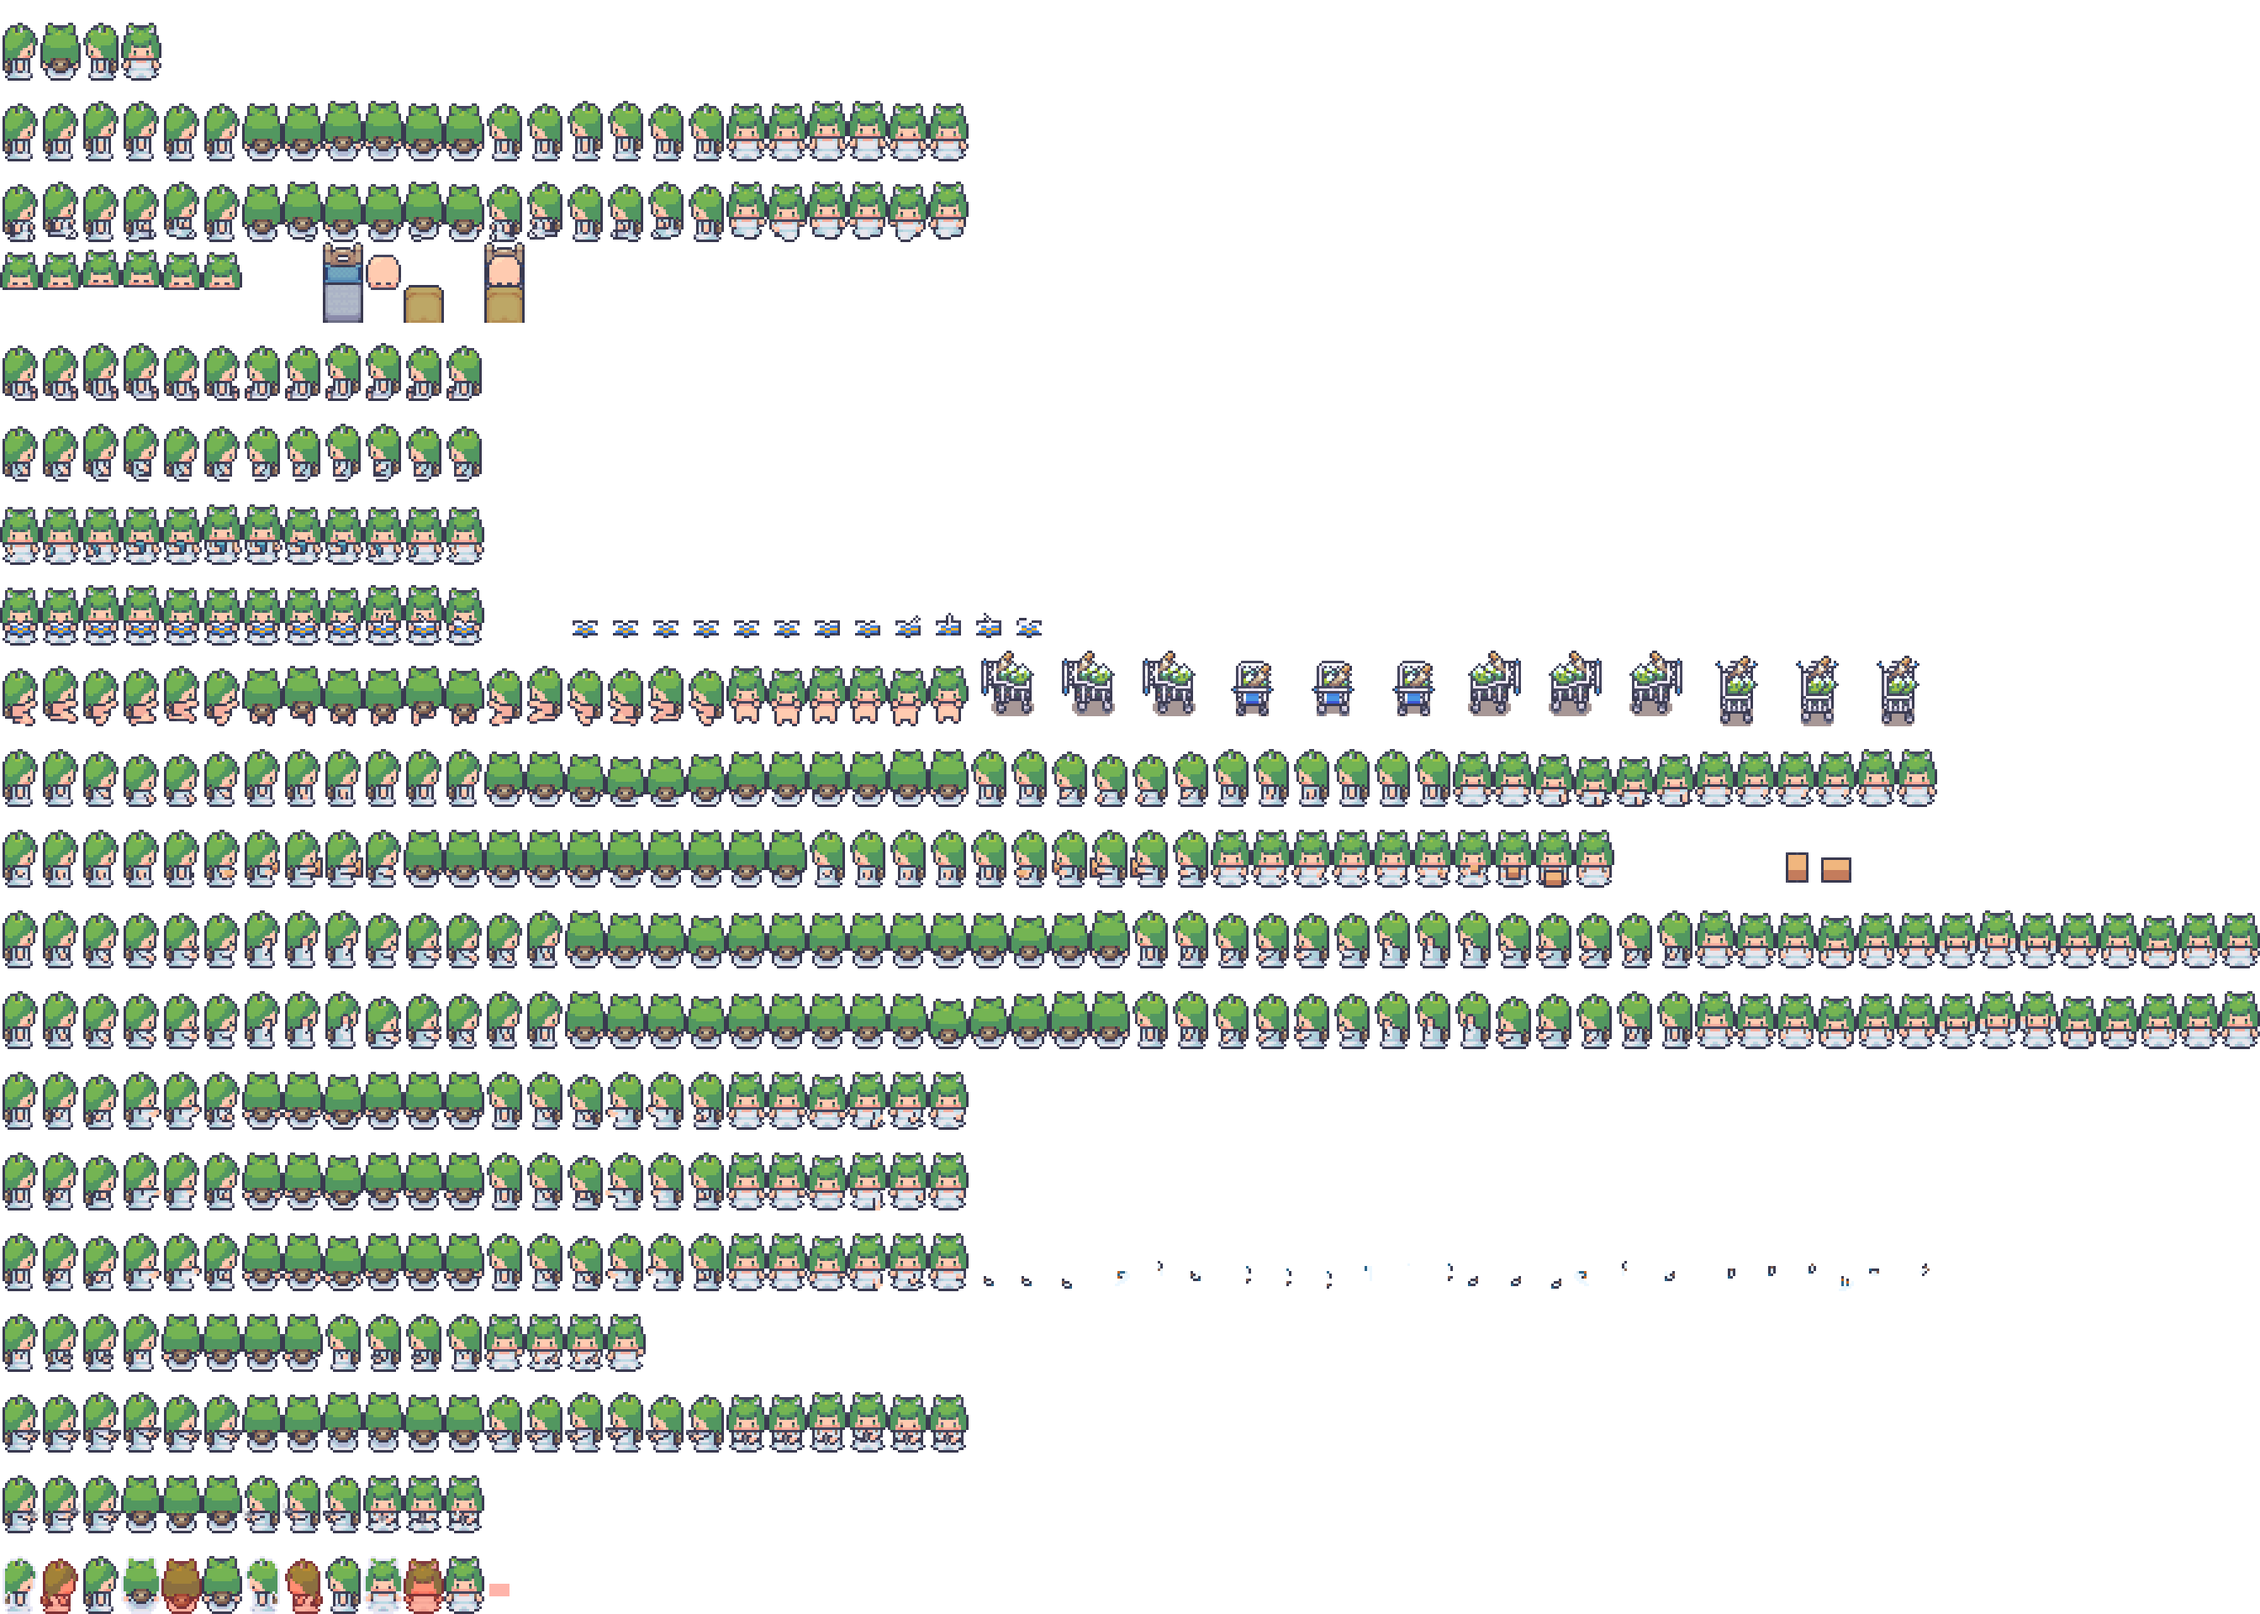
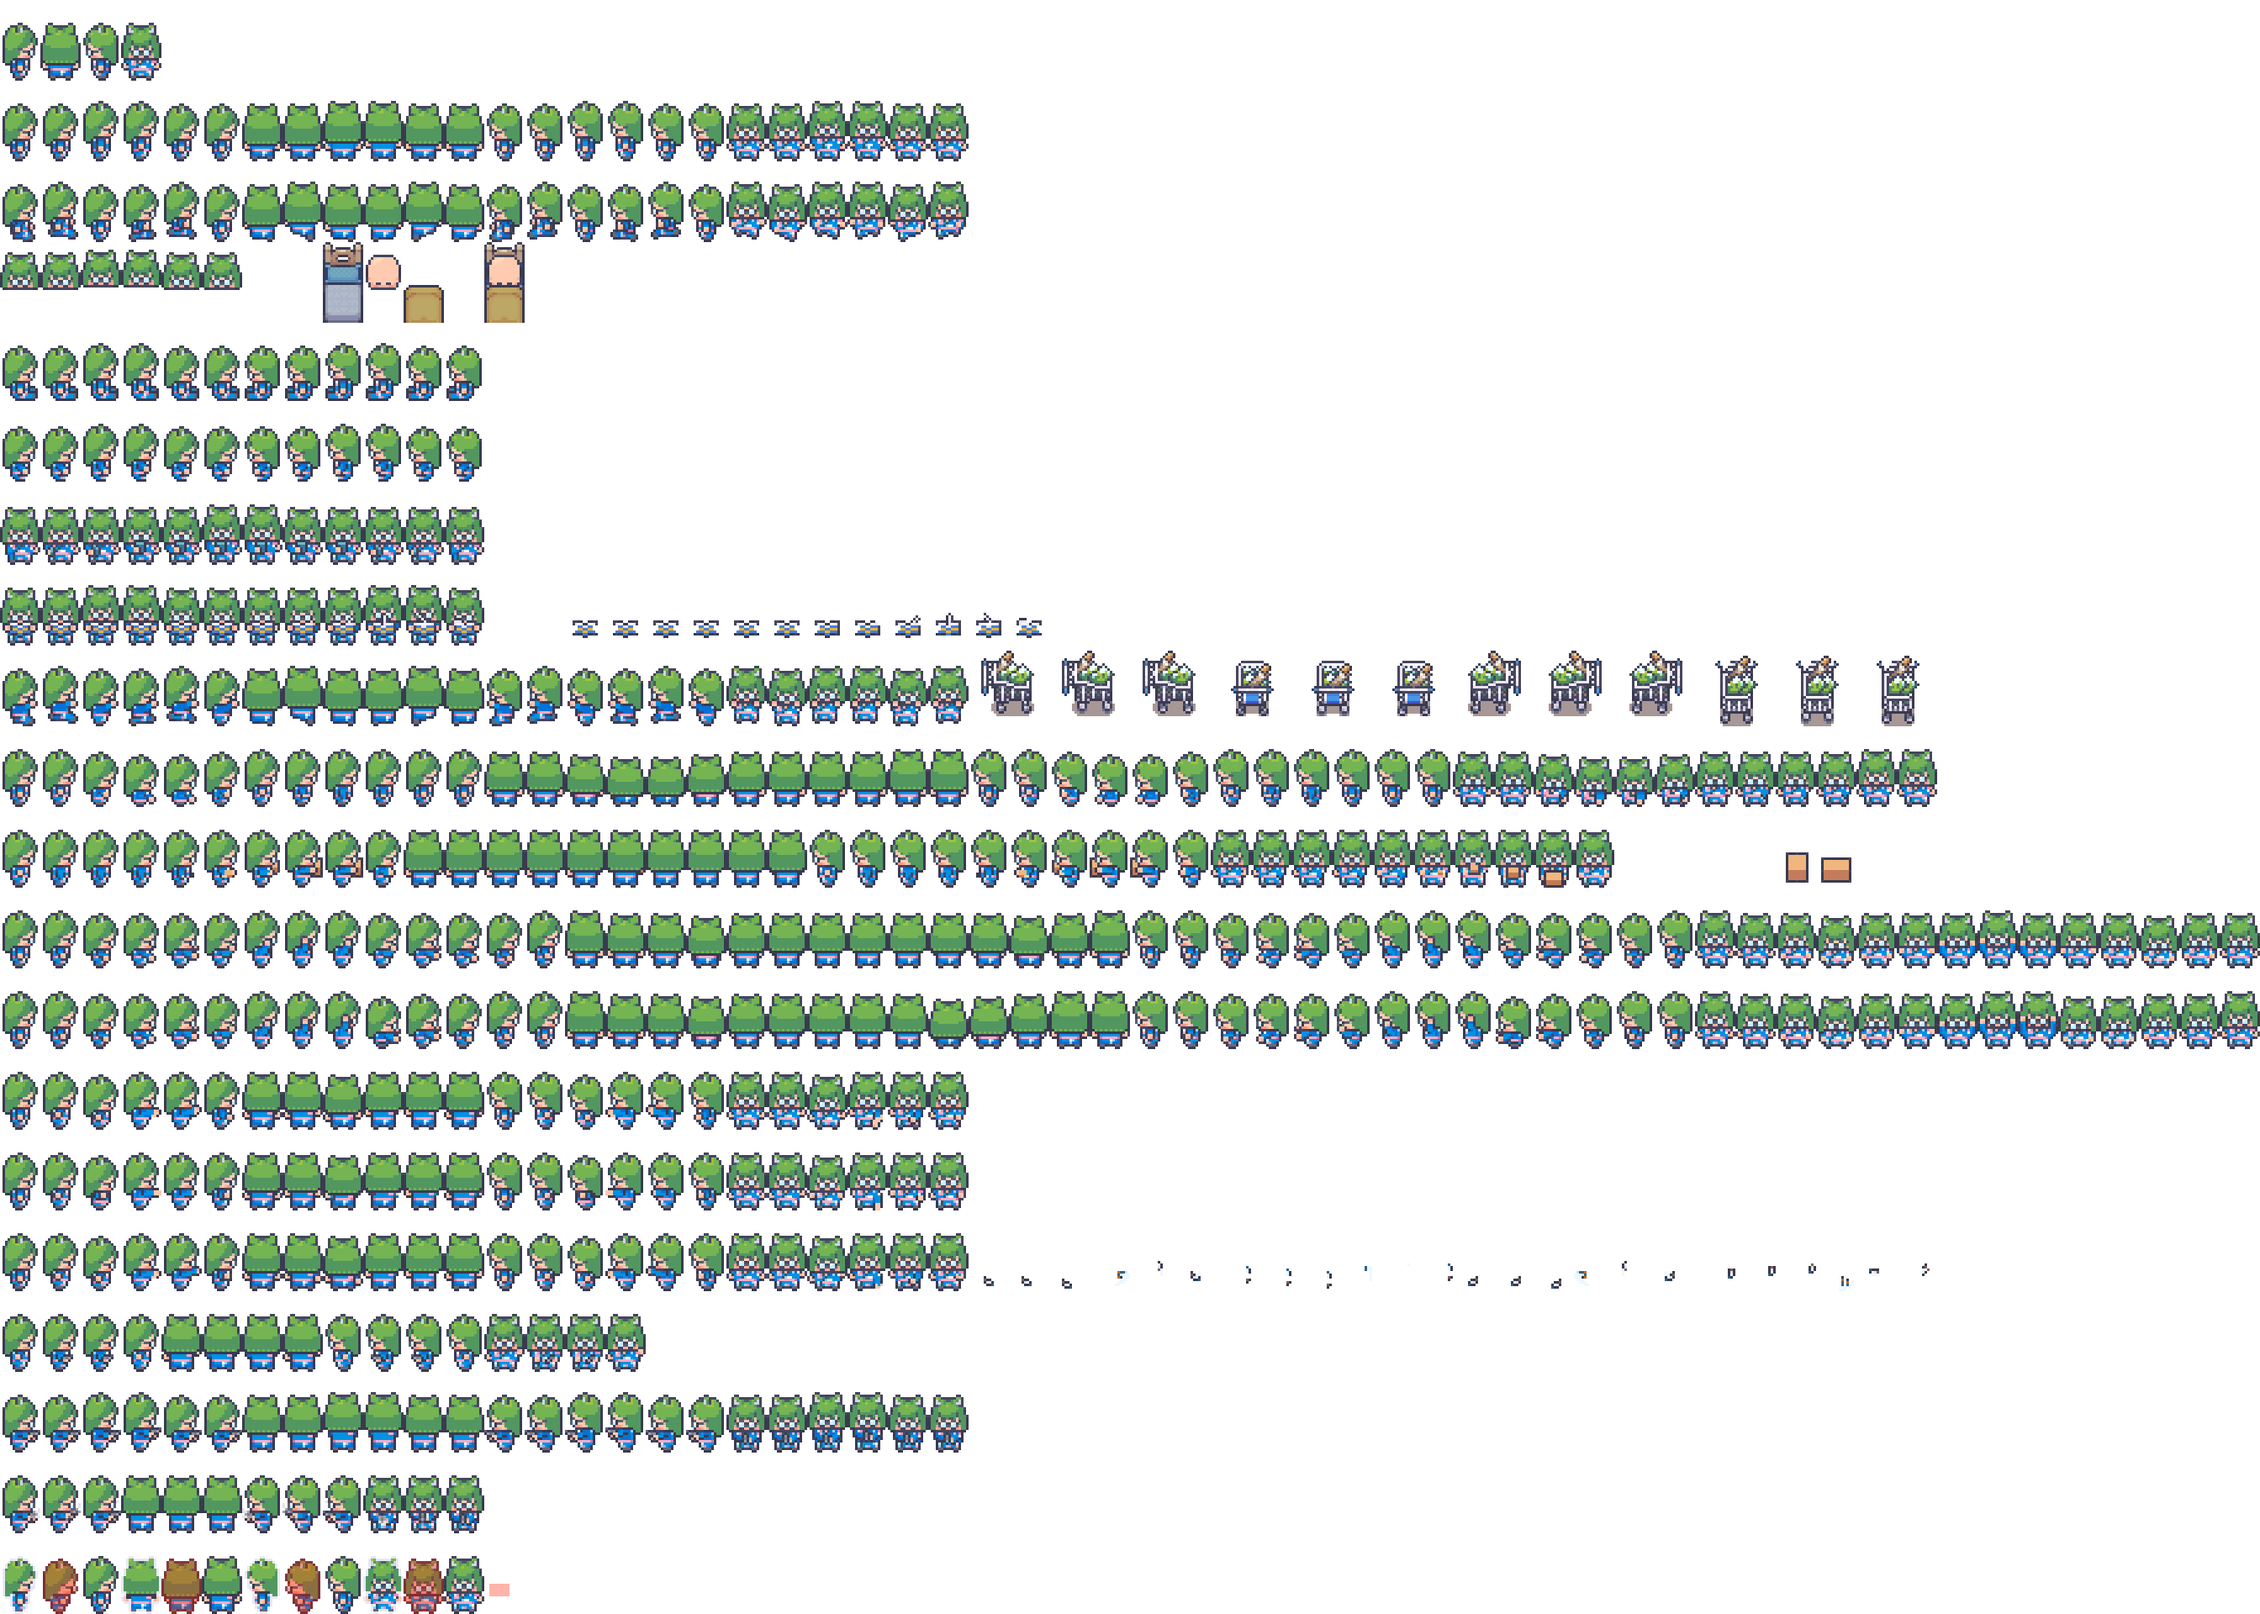
cleaned up main and added assets

diff --git a/tiger_style/src/main.rs b/tiger_style/src/main.rs
@@ -1,222 +1,7 @@
-// THIS WORKS!
-// use std::time::Duration;
-// use bevy::prelude::*;
-
-// const PLAYER_SPEED: f32 = 500.0;
-
-// fn main() {
-//     App::new()
-//         .add_plugins(DefaultPlugins.set(ImagePlugin::default_nearest())) // prevents blurry sprites
-//         .add_systems(Startup, setup)
-//         .add_systems(Update, (trigger_animation, execute_animations))
-//         .run();
-// }
-
-// fn trigger_animation(
-//     time: Res<Time>,
-//     keyboard_input: Res<ButtonInput<KeyCode>>,
-//     mut query: Query<(&mut AnimationConfig, &mut Transform, &mut TextureAtlas, &mut MovementState), With<Player>>,
-// ) {
-//     let (mut animation, mut transform, mut atlas, mut movement_state) = query.single_mut();
-
-//     let mut direction = Vec3::ZERO;
-//     let mut new_animation_indices = None;
-//     let mut last_direction = None;
-
-//     if keyboard_input.pressed(KeyCode::ArrowRight) || keyboard_input.pressed(KeyCode::KeyD) {
-//         direction += Vec3::new(1.0, 0.0, 0.0);
-//         new_animation_indices = Some((112 + 0, 112 + 5));
-//         last_direction = Some(Direction::Right);
-//     } else if keyboard_input.pressed(KeyCode::ArrowLeft) || keyboard_input.pressed(KeyCode::KeyA) {
-//         direction += Vec3::new(-1.0, 0.0, 0.0);
-//         new_animation_indices = Some((112 + 12, 112 + 17));
-//         last_direction = Some(Direction::Left);
-//     } else if keyboard_input.pressed(KeyCode::ArrowUp) || keyboard_input.pressed(KeyCode::KeyW) {
-//         direction += Vec3::new(0.0, 1.0, 0.0);
-//         new_animation_indices = Some((112 + 6, 112 + 11));
-//         last_direction = Some(Direction::Up);
-//     } else if keyboard_input.pressed(KeyCode::ArrowDown) || keyboard_input.pressed(KeyCode::KeyS) {
-//         direction += Vec3::new(0.0, -1.0, 0.0);
-//         new_animation_indices = Some((112 + 18, 112 + 23));
-//         last_direction = Some(Direction::Down);
-//     } else {
-//         // Set to idle animation if no movement key is pressed
-//         let idle_indices = match *movement_state {
-//             MovementState::Idle { last_direction } => match last_direction {
-//                 Direction::Right => (56, 61),
-//                 Direction::Left => (68, 73),
-//                 Direction::Up => (62, 67),
-//                 Direction::Down => (74, 79),
-//             },
-//             MovementState::Moving { last_direction } => match last_direction {
-//                 Some(Direction::Right) => (56, 61),
-//                 Some(Direction::Left) => (68, 73),
-//                 Some(Direction::Up) => (62, 67),
-//                 Some(Direction::Down) => (74, 79),
-//                 None => (56, 61),
-//             },
-//         };
-
-//         if !matches!(*movement_state, MovementState::Idle { .. }) {
-//             animation.first_sprite_index = idle_indices.0;
-//             animation.last_sprite_index = idle_indices.1;
-//             atlas.index = animation.first_sprite_index;
-//             animation.frame_timer = AnimationConfig::timer_from_fps(animation.fps);
-//             if let MovementState::Moving { last_direction } = *movement_state {
-//                 *movement_state = MovementState::Idle {
-//                     last_direction: last_direction.unwrap_or(Direction::Right),
-//                 };
-//             }
-//         }
-//     }
-
-//     if let Some((first, last)) = new_animation_indices {
-//         if !matches!(*movement_state, MovementState::Moving {..}) || animation.first_sprite_index != first || animation.last_sprite_index != last {
-//             animation.first_sprite_index = first;
-//             animation.last_sprite_index = last;
-//             atlas.index = first;
-//             animation.frame_timer = AnimationConfig::timer_from_fps(animation.fps);
-//             *movement_state = MovementState::Moving { last_direction: last_direction.unwrap_or(Direction::Right).into() };
-//         }
-//     }
-
-//     if direction.length() > 0.0 {
-//         direction = direction.normalize();
-//         transform.translation += direction * PLAYER_SPEED * time.delta_seconds();
-//     }
-
-//     // Handle animation
-//     animation.frame_timer.tick(time.delta());
-//     if animation.frame_timer.just_finished() {
-//         if atlas.index == animation.last_sprite_index {
-//             atlas.index = animation.first_sprite_index;
-//         } else {
-//             atlas.index += 1;
-//         }
-//         animation.frame_timer.reset();
-//     }
-// }
-
-// #[derive(Component)]
-// struct AnimationConfig {
-//     first_sprite_index: usize,
-//     last_sprite_index: usize,
-//     fps: u8,
-//     frame_timer: Timer,
-// }
-
-// impl AnimationConfig {
-//     fn new(first: usize, last: usize, fps: u8) -> Self {
-//         Self {
-//             first_sprite_index: first,
-//             last_sprite_index: last,
-//             fps,
-//             frame_timer: Self::timer_from_fps(fps),
-//         }
-//     }
-
-//     fn timer_from_fps(fps: u8) -> Timer {
-//         Timer::new(Duration::from_secs_f32(1.0 / (fps as f32)), TimerMode::Repeating)
-//     }
-// }
-
-// fn execute_animations(
-//     time: Res<Time>,
-//     mut query: Query<(&mut AnimationConfig, &mut TextureAtlas)>,
-// ) {
-//     for (mut config, mut atlas) in &mut query {
-//         config.frame_timer.tick(time.delta());
-//         if config.frame_timer.just_finished() {
-//             if atlas.index == config.last_sprite_index {
-//                 atlas.index = config.first_sprite_index;
-//             } else {
-//                 atlas.index += 1;
-//             }
-//         }
-//     }
-// }
-
-// #[derive(Component, PartialEq)]
-// enum MovementState {
-//     Moving { last_direction: Option<Direction> },
-//     Idle { last_direction: Direction },
-// }
-
-// #[derive(PartialEq, Copy, Clone)]
-// enum Direction {
-//     Right,
-//     Left,
-//     Up,
-//     Down,
-// }
-
-// #[derive(Component)]
-// struct Player;
-
-// fn setup(
-//     mut commands: Commands,
-//     asset_server: Res<AssetServer>,
-//     mut texture_atlas_layouts: ResMut<Assets<TextureAtlasLayout>>,
-// ) {
-//     commands.spawn(Camera2dBundle::default());
-//     let texture = asset_server.load("player_07.png");
-//     let layout = TextureAtlasLayout::from_grid(UVec2::new(48, 96), 56, 19, None, None);
-//     let texture_atlas_layout = texture_atlas_layouts.add(layout);
-//     let animation_config = AnimationConfig::new(56, 56 + 5, 10);
-
-//     commands.spawn((
-//         SpriteBundle {
-//             transform: Transform::from_scale(Vec3::splat(6.0))
-//                 .with_translation(Vec3::new(-50.0, 0.0, 0.0)),
-//             texture: texture.clone(),
-//             ..default()
-//         },
-//         TextureAtlas {
-//             layout: texture_atlas_layout.clone(),
-//             index: animation_config.first_sprite_index,
-//         },
-//         Player,
-//         animation_config,
-//         MovementState::Idle { last_direction: Direction::Right },
-//     ));
-// }
-
-
-
-
-
-
-
-
-
-
-
-
-
-
-
-
-
-
-
-
-
-
-
-
-
-
-
-
-
-
-
-
 use bevy::prelude::*;
 use bevy::DefaultPlugins; // Correct import for DefaultPlugins
 mod player;
 
-use player::components::*;
 use player::systems::*;
 use player::setup::*;
 

diff --git a/tiger_style/src/player/setup.rs b/tiger_style/src/player/setup.rs
@@ -7,14 +7,14 @@ pub fn setup(
         mut texture_atlas_layouts: ResMut<Assets<TextureAtlasLayout>>,
     ) {
         commands.spawn(Camera2dBundle::default());
-        let texture = asset_server.load("player_07.png");
+        let texture = asset_server.load("player_01.png");
         let layout = TextureAtlasLayout::from_grid(UVec2::new(48, 96), 56, 19, None, None);
         let texture_atlas_layout = texture_atlas_layouts.add(layout);
         let animation_config = AnimationConfig::new(56, 56 + 5, 10);
     
         commands.spawn((
             SpriteBundle {
-                transform: Transform::from_scale(Vec3::splat(6.0))
+                transform: Transform::from_scale(Vec3::splat(2.0))
                     .with_translation(Vec3::new(-50.0, 0.0, 0.0)),
                 texture: texture.clone(),
                 ..default()
